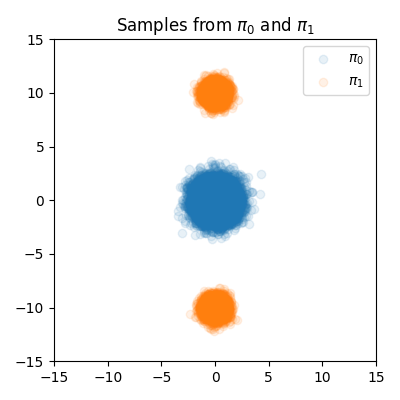
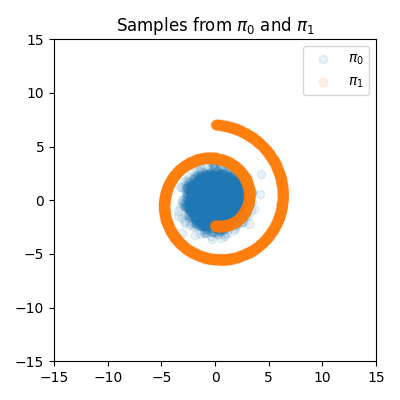
(Experiment) TT-RecFlow with swissroll

Changed region(s): [[0.39, 0.15, 0.72, 0.84]]

diff --git a/tt_rectified_flow/tt_rectified_flow.py b/tt_rectified_flow/tt_rectified_flow.py
@@ -7,6 +7,7 @@ import random
 import torch
 import numpy as np
 import matplotlib.pyplot as plt
+from sklearn.datasets import make_swiss_roll
 from torch.distributions import Categorical
 from torch.distributions.multivariate_normal import MultivariateNormal
 from torch.distributions.mixture_same_family import MixtureSameFamily
@@ -168,7 +169,7 @@ def draw_plot(model, z0, z1, N, tt_rank):
     # plt.title("Distribution")
     # plt.tight_layout()
     # print(f"Saving gen vs actual samples")
-    plt.savefig(f"generated_vs_actual_samples_{tt_rank}.png")
+    plt.savefig(f"generated_vs_actual_samples_rank_{tt_rank}_deg_{degree}.png")
 
     # traj_particles = torch.stack(traj)
     plt.figure(figsize=(4, 4))
@@ -209,13 +210,13 @@ if __name__ == '__main__':
 
     samples_0 = initial_model.sample(torch.Size((n_samples,)))
     # samples from Gaussian Mixture
-    samples_1 = target_model.sample(torch.Size((n_samples,)))
+    # samples_1 = target_model.sample(torch.Size((n_samples,)))
     # samples from 2D swissroll
     # Same code from
     # 1 ) https://github.com/Jmkernes/Diffusion/blob/main/diffusion/ddpm/main.py#L44
     # 2 ) https://github.com/MaximeVandegar/Papers-in-100-Lines-of-Code/blob/main/Deep_Unsupervised_Learning_using_Nonequilibrium_Thermodynamics/diffusion_models.py#L12
     # 3 ) https://github.com/mbaddar1/Diffusion/blob/281e453d66d413976bc069c75d736c6df3c4a9de/diffusion/ddpm/main.py#L50
-    # samples_1 = torch.tensor(make_swiss_roll(n_samples=n_samples, noise=1e-1)[0][:, [0, 2]] / 2.0)
+    samples_1 = torch.tensor(make_swiss_roll(n_samples=n_samples, noise=1e-1)[0][:, [0, 2]] / 2.0)
     # plot the samples
 
     plt.figure(figsize=(4, 4))
@@ -282,10 +283,11 @@ if __name__ == '__main__':
     ##############  TT fitting #################################
 
     print(f"Starting tt fitting")
-    ## TT parameters
-    tt_rank = 50
-    degrees = [tt_rank] * (d + 1)  # hotfix by charles that made the GMM work
-    ranks = [1] + [4] * d + [1]
+    # TT parameters
+    tt_rank = 6
+    degree = 16
+    degrees = [degree] * (d + 1)  # hotfix by charles that made the GMM work
+    ranks = [1] + [tt_rank] * d + [1]
 
     domain = [list(limits) for _ in range(d)] + [[0, 1]]
 
@@ -327,8 +329,10 @@ if __name__ == '__main__':
 
     # Calculate Sinkhorn losses
 
-    sample_ref_1 = target_model.sample(torch.Size((n_samples,)))  # .cuda()
-    sample_ref_2 = target_model.sample(torch.Size((n_samples,)))  # .cuda()
+    # sample_ref_1 = target_model.sample(torch.Size((n_samples,)))  # .cuda()
+    # sample_ref_2 = target_model.sample(torch.Size((n_samples,)))  # .cuda()
+    sample_ref_1 = torch.tensor(make_swiss_roll(n_samples=n_samples, noise=1e-1)[0][:, [0, 2]] / 2.0)
+    sample_ref_2 = torch.tensor(make_swiss_roll(n_samples=n_samples, noise=1e-1)[0][:, [0, 2]] / 2.0)
 
     # check statistics for close samples
     mean_0 = torch.mean(samples_1, dim=0)
@@ -350,25 +354,24 @@ if __name__ == '__main__':
     L_gen_1 = loss(z1_, sample_ref_1)
     L_gen_2 = loss(z1_, sample_ref_2)
 
-    print(f"tt-rank = {tt_rank}")
-    print(f"Gen sinkhorn loss = {(L_gen_1+L_gen_2)/2.0}")
-
+    print(f"rank = {tt_rank}")
+    print(f"deg = {degree}")
+    print(f"Ref sinkhorn = {L_ref}")
+    print(f"Gen sinkhorn loss = {(L_gen_1 + L_gen_2) / 2.0}")
 
 """
 Quick Experiments results
-
-For Gaussian Mixtures with k = 2
-Data sampling line of code tt_rectified_flow/tt_rectified_flow.py:212
-tt_rank         sinkhorn divergence
-0               42               
-1               8.8
-5               1.2
-10              0.7
-20              0.885              
-30              0.398
-32              0.30
-35              0.32
-36              0.38
-40              0.499
-50              10.079
+---
+i) 
+Model : TT-Recflow with legendre poly 
+Dataset : Swissroll 2D 
+Opt : Fixed Rank TT-ALS
+Results: 
+Numerically
+Ref sinkhorn divergence = 0.003
+Best results so far
+Rank        Deg         Sinkhorn
+6           14          0.08
+6           15          0.09
+6           16          0.06 *
 """
